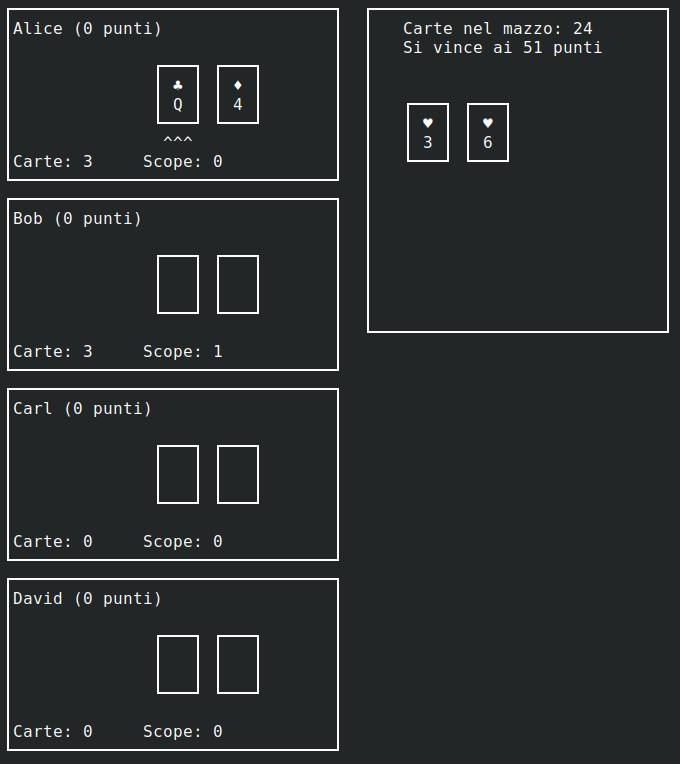
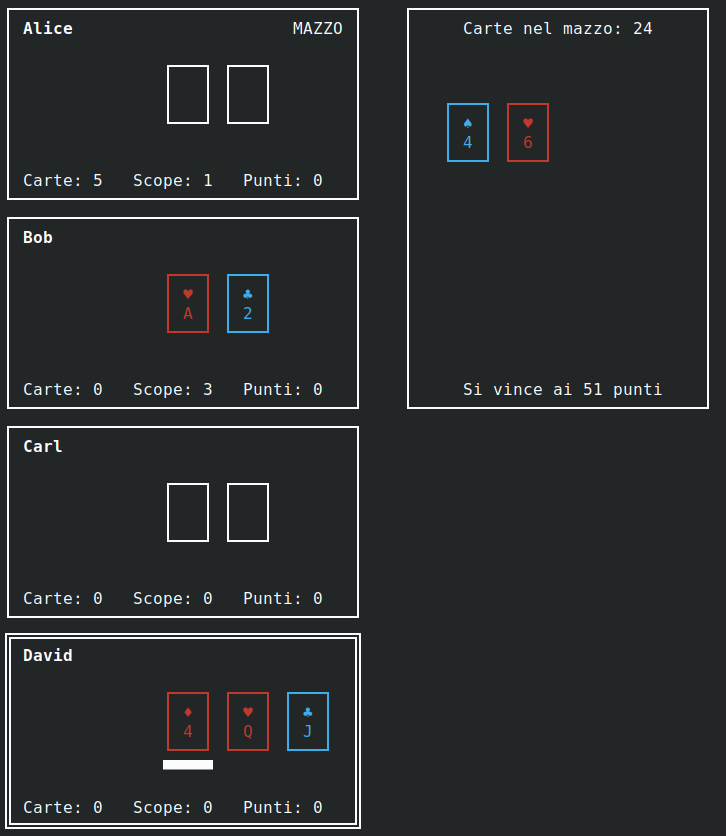
Huge UI improvement for CLI version

diff --git a/cirulla_cli/src/ui.rs b/cirulla_cli/src/ui.rs
@@ -1,8 +1,9 @@
 use cirulla_lib::{Card, Effect, Game, Player};
+use crossterm::style::Stylize;
 use crossterm::{
     cursor::{Hide, MoveTo, Show},
     event::{read, Event, KeyCode},
-    style::Print,
+    style::{Color, Print, SetForegroundColor},
     terminal::{disable_raw_mode, enable_raw_mode, Clear, ClearType},
     QueueableCommand,
 };
@@ -11,7 +12,7 @@ use std::{
     process,
 };
 
-const PLAYER_HEIGHT: u16 = 10;
+const PLAYER_HEIGHT: u16 = 11;
 
 pub struct UI {
     stdout: Stdout,
@@ -91,7 +92,7 @@ impl UI {
             .unwrap();
 
         for (i, player) in game.players.iter().enumerate() {
-            self.player(player, i as u16, i == game.current_player_index)
+            self.player(player, i as u16, i == 0, i == game.current_player_index)
                 .unwrap();
         }
 
@@ -107,12 +108,12 @@ impl UI {
                     16,
                     game.current_player_index as u16 * PLAYER_HEIGHT + 7,
                 ))?
-                .queue(Print("               ".to_string()))?
+                .queue(Print("                 "))?
                 .queue(MoveTo(
                     (16 + pointer * 6) as u16,
                     game.current_player_index as u16 * PLAYER_HEIGHT + 7,
                 ))?
-                .queue(Print("^^^".to_string()))?
+                .queue(Print("▀▀▀▀▀"))?
                 .flush()?;
 
             match read()? {
@@ -156,48 +157,50 @@ impl UI {
         self.stdout.flush()
     }
 
-    fn draw_box(&mut self, pos: (u16, u16), size: (u16, u16)) -> Result<(), Error> {
+    fn draw_box(&mut self, pos: (u16, u16), size: (u16, u16), thick: bool) -> Result<(), Error> {
         self.stdout
             .queue(MoveTo(pos.0, pos.1))?
-            .queue(Print("┌".to_string()))?
+            .queue(Print(if thick { "╔" } else { "┌" }))?
             .queue(MoveTo(pos.0 + size.0, pos.1))?
-            .queue(Print("┐".to_string()))?
+            .queue(Print(if thick { "╗" } else { "┐" }))?
             .queue(MoveTo(pos.0, pos.1 + size.1))?
-            .queue(Print("└".to_string()))?
+            .queue(Print(if thick { "╚" } else { "└" }))?
             .queue(MoveTo(pos.0 + size.0, pos.1 + size.1))?
-            .queue(Print("┘".to_string()))?;
+            .queue(Print(if thick { "╝" } else { "┘" }))?;
 
+        let horizontal = if thick { "═" } else { "─" };
         for i in 1..size.0 {
             self.stdout
                 .queue(MoveTo(pos.0 + i, pos.1))?
-                .queue(Print("─".to_string()))?
+                .queue(Print(horizontal))?
                 .queue(MoveTo(pos.0 + i, pos.1 + size.1))?
-                .queue(Print("─".to_string()))?;
+                .queue(Print(horizontal))?;
         }
 
+        let vertical = if thick { "║" } else { "│" };
         for i in 1..size.1 {
             self.stdout
                 .queue(MoveTo(pos.0, pos.1 + i))?
-                .queue(Print("│".to_string()))?
+                .queue(Print(vertical))?
                 .queue(MoveTo(pos.0 + size.0, pos.1 + i))?
-                .queue(Print("│".to_string()))?;
+                .queue(Print(vertical))?;
         }
 
         Ok(())
     }
 
     fn table(&mut self, table: &Vec<Card>, deck: usize, win_at: u8) -> Result<(), Error> {
-        self.draw_box((36, 0), (30, 17))?;
+        self.draw_box((40, 0), (30, 21), false)?;
         self.stdout
-            .queue(MoveTo(40, 1))?
+            .queue(MoveTo(46, 1))?
             .queue(Print(format!("Carte nel mazzo: {}", deck)))?
-            .queue(MoveTo(40, 2))?
+            .queue(MoveTo(46, 20))?
             .queue(Print(format!("Si vince ai {} punti", win_at)))?;
 
         table.iter().enumerate().for_each(|(i, card)| {
             self.card(
                 card,
-                (40 + (i % 4) as u16 * 6, (5 + (i / 4) * 4) as u16),
+                (44 + (i % 4) as u16 * 6, (5 + (i / 4) * 4) as u16),
                 true,
             )
             .unwrap();
@@ -206,16 +209,29 @@ impl UI {
         Ok(())
     }
 
-    fn player(&mut self, player: &Player, ord: u16, active: bool) -> Result<(), Error> {
-        self.draw_box((0, ord * PLAYER_HEIGHT), (33, PLAYER_HEIGHT-1))?;
+    fn player(
+        &mut self,
+        player: &Player,
+        ord: u16,
+        dealer: bool,
+        active: bool,
+    ) -> Result<(), Error> {
+        self.draw_box((0, ord * PLAYER_HEIGHT), (35, PLAYER_HEIGHT - 1), active)?;
+
         self.stdout
-            .queue(MoveTo(1, ord * PLAYER_HEIGHT + 1))?
-            .queue(Print(format!("{} ({} punti)", player.name, player.points)))?;
+            .queue(MoveTo(2, ord * PLAYER_HEIGHT + 1))?
+            .queue(Print(player.name.as_str().bold()))?;
+
+        if dealer {
+            self.stdout
+                .queue(MoveTo(29, ord * PLAYER_HEIGHT + 1))?
+                .queue(Print("MAZZO"))?;
+        }
 
         player.hand.iter().enumerate().for_each(|(i, card)| {
             self.card(
                 card,
-                (15 + i as u16 * 6, ord * PLAYER_HEIGHT + 3),
+                (16 + i as u16 * 6, ord * PLAYER_HEIGHT + 3),
                 active || player.hand_visible,
             )
             .unwrap();
@@ -223,7 +239,7 @@ impl UI {
 
         player.effect.iter().enumerate().for_each(|(pos, effect)| {
             self.stdout
-                .queue(MoveTo(1, ord * PLAYER_HEIGHT + 3 + pos as u16))
+                .queue(MoveTo(2, ord * PLAYER_HEIGHT + 3 + pos as u16))
                 .unwrap()
                 .queue(Print(match &effect {
                     Effect::DeckHandlerBroom(value) => format!("Banco a {}", value),
@@ -233,11 +249,12 @@ impl UI {
         });
 
         self.stdout
-            .queue(MoveTo(1, ord * PLAYER_HEIGHT + 8))?
+            .queue(MoveTo(2, ord * PLAYER_HEIGHT + 9))?
             .queue(Print(format!(
-                "Carte: {}     Scope: {}",
+                "Carte: {}   Scope: {}   Punti: {}",
                 player.catched.len(),
-                player.brooms
+                player.brooms,
+                player.points
             )))?;
 
         Ok(())
@@ -251,6 +268,13 @@ impl UI {
             Card::Spade(_) => "♠",
         };
 
+        if show {
+            self.stdout.queue(SetForegroundColor(match card {
+                Card::Heart(_) | Card::Diamond(_) => Color::Red,
+                _ => Color::Blue,
+            }))?;
+        }
+
         self.stdout
             .queue(MoveTo(pos.0, pos.1))?
             .queue(Print("┌───┐".to_string()))?
@@ -263,7 +287,11 @@ impl UI {
             )))?
             .queue(MoveTo(pos.0, pos.1 + 3))?
             .queue(Print("└───┘".to_string()))?;
-
+        
+        if show {
+            self.stdout.queue(SetForegroundColor(Color::Reset))?;
+        }
+        
         Ok(())
     }
 }

diff --git a/cirulla_lib/src/game.rs b/cirulla_lib/src/game.rs
@@ -1,7 +1,8 @@
-mod catching_logic;
-
-use crate::{card::Card, player::{Effect, Player}};
-use catching_logic::catching_logic;
+use crate::{
+    card::Card,
+    catching_logic::catching_logic,
+    player::{Effect, Player},
+};
 use rand::seq::SliceRandom;
 use std::fmt::Debug;
 
@@ -87,24 +88,40 @@ impl Game {
             println!("Deck not ready: {:?}", self);
             return Err("Deck not ready");
         }
-        self.deck.shuffle(&mut rand::thread_rng());
 
         for player in self.players.iter_mut() {
             player.start_hand();
         }
 
-        let mut total_points = 0;
-        for _ in 0..4 {
-            let card = self.deck.pop().unwrap();
-            total_points += card.value();
-            self.table.push(card);
+        loop {
+            self.deck.shuffle(&mut rand::thread_rng());
+            let mut aces = 0;
+            for _ in 0..4 {
+                let card = self.deck.pop().unwrap();
+                if card.value() == 1 {
+                    aces += 1;
+                }
+                self.table.push(card);
+            }
+            if aces > 1 {
+                while let Some(card) = self.table.pop() {
+                    self.deck.push(card);
+                }
+            } else {
+                break;
+            }
         }
+
+        let total_points = self.table.iter().fold(0, |acc, c| acc + c.value());
+
         if total_points == 15 || total_points == 30 {
             while let Some(c) = self.table.pop() {
                 self.players[0].catch(c);
             }
             self.players[0].increment_brooms(total_points / 15);
-            self.players[0].effect.push(Effect::DeckHandlerBroom(total_points))
+            self.players[0]
+                .effect
+                .push(Effect::DeckHandlerBroom(total_points))
         }
 
         self.hand_started = true;
@@ -166,7 +183,11 @@ impl Game {
     }
 
     pub fn next_round_action(&mut self) -> Result<NextAction, &str> {
-        self.players.get_mut(self.current_player_index).unwrap().effect.clear();
+        self.players
+            .get_mut(self.current_player_index)
+            .unwrap()
+            .effect
+            .clear();
 
         self.current_player_index += 1;
         if self.current_player_index >= self.players.len() {

diff --git a/cirulla_lib/src/lib.rs b/cirulla_lib/src/lib.rs
@@ -1,9 +1,10 @@
 mod card;
+mod catching_logic;
 mod game;
 mod player;
 
 pub use card::Card;
-pub use player::Player;
-pub use player::Effect;
 pub use game::Game;
 pub use game::NextAction;
+pub use player::Effect;
+pub use player::Player;
